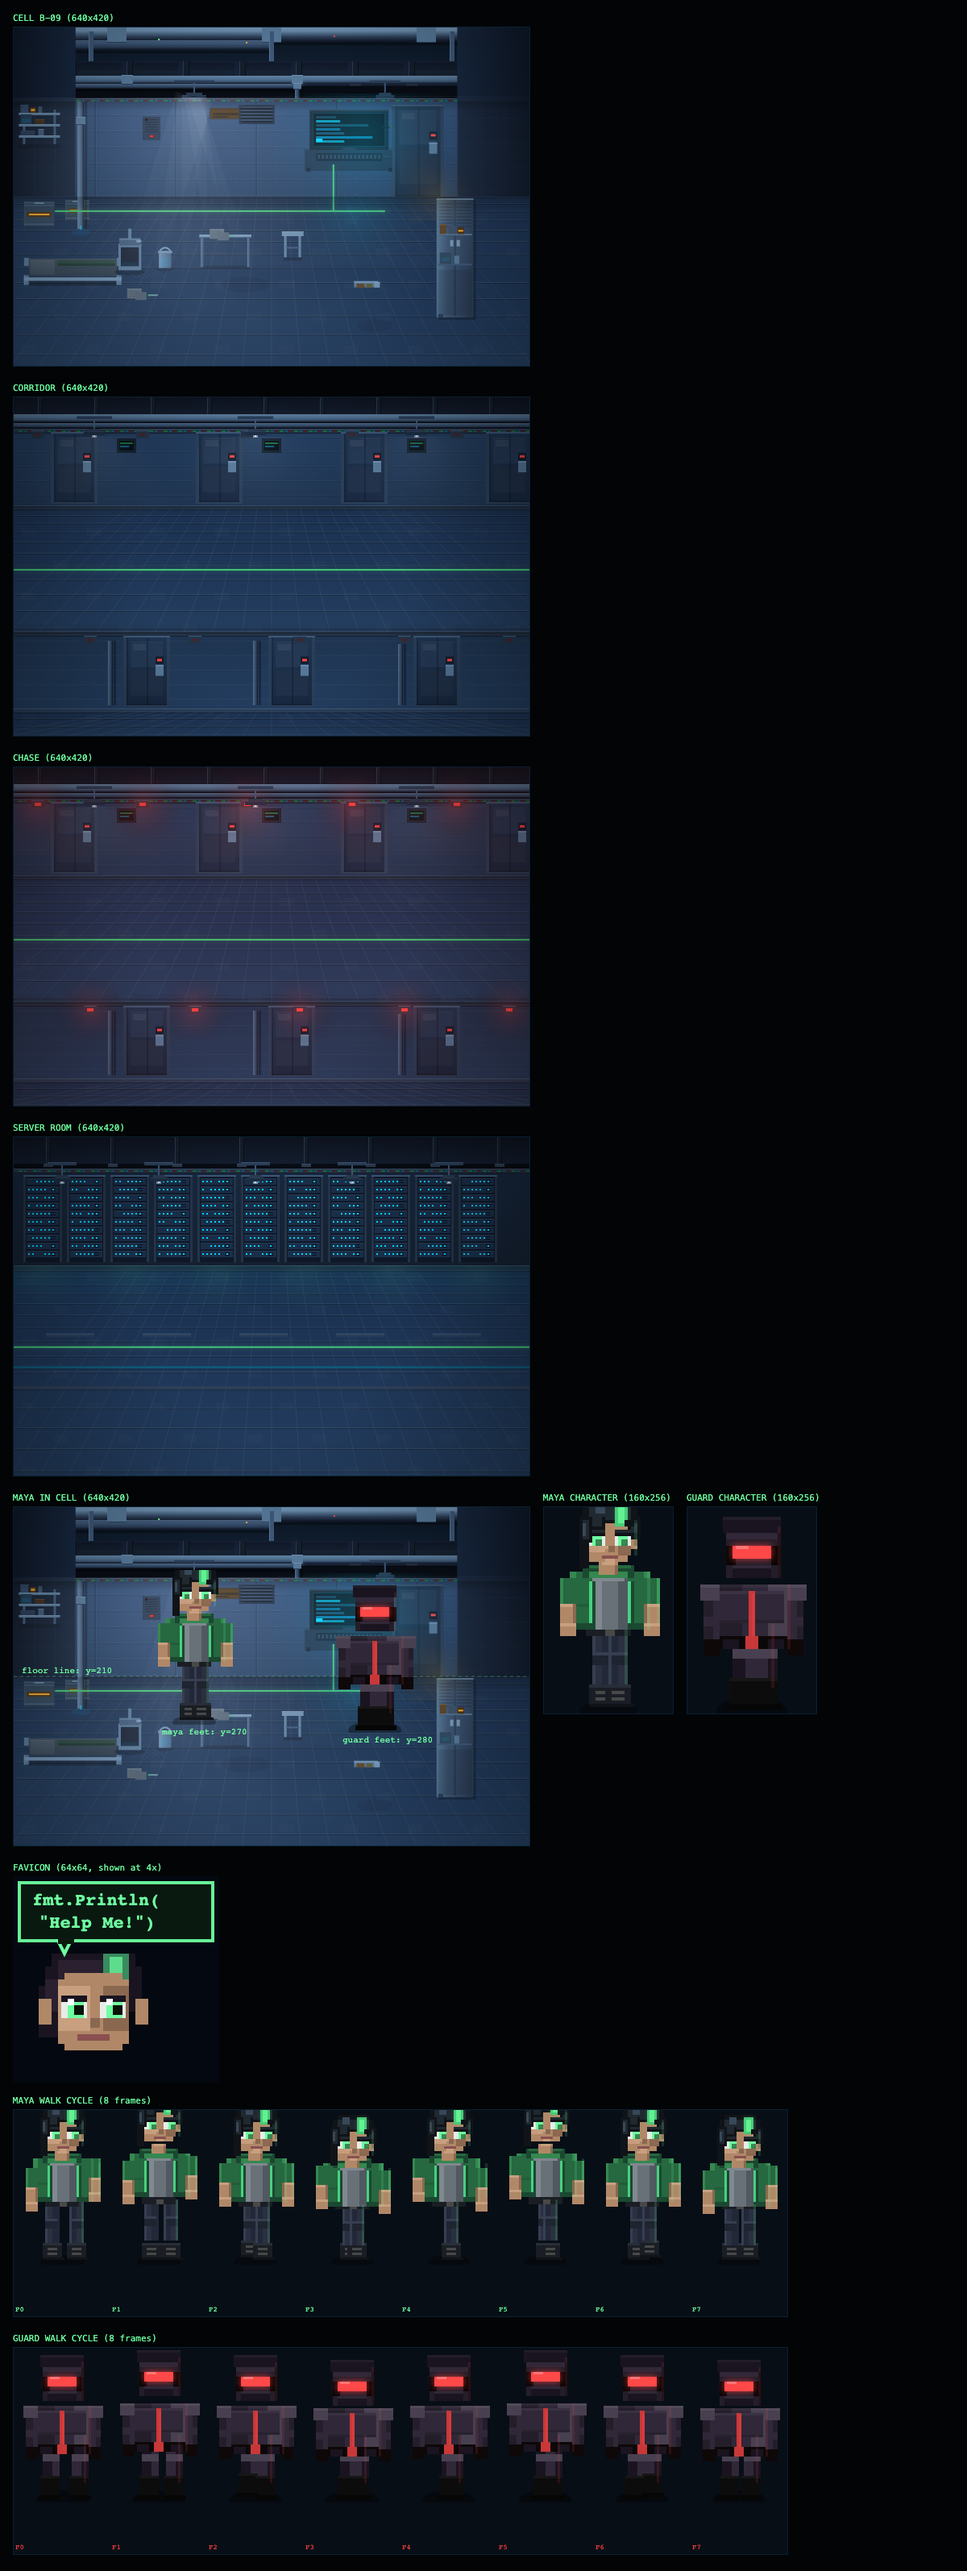
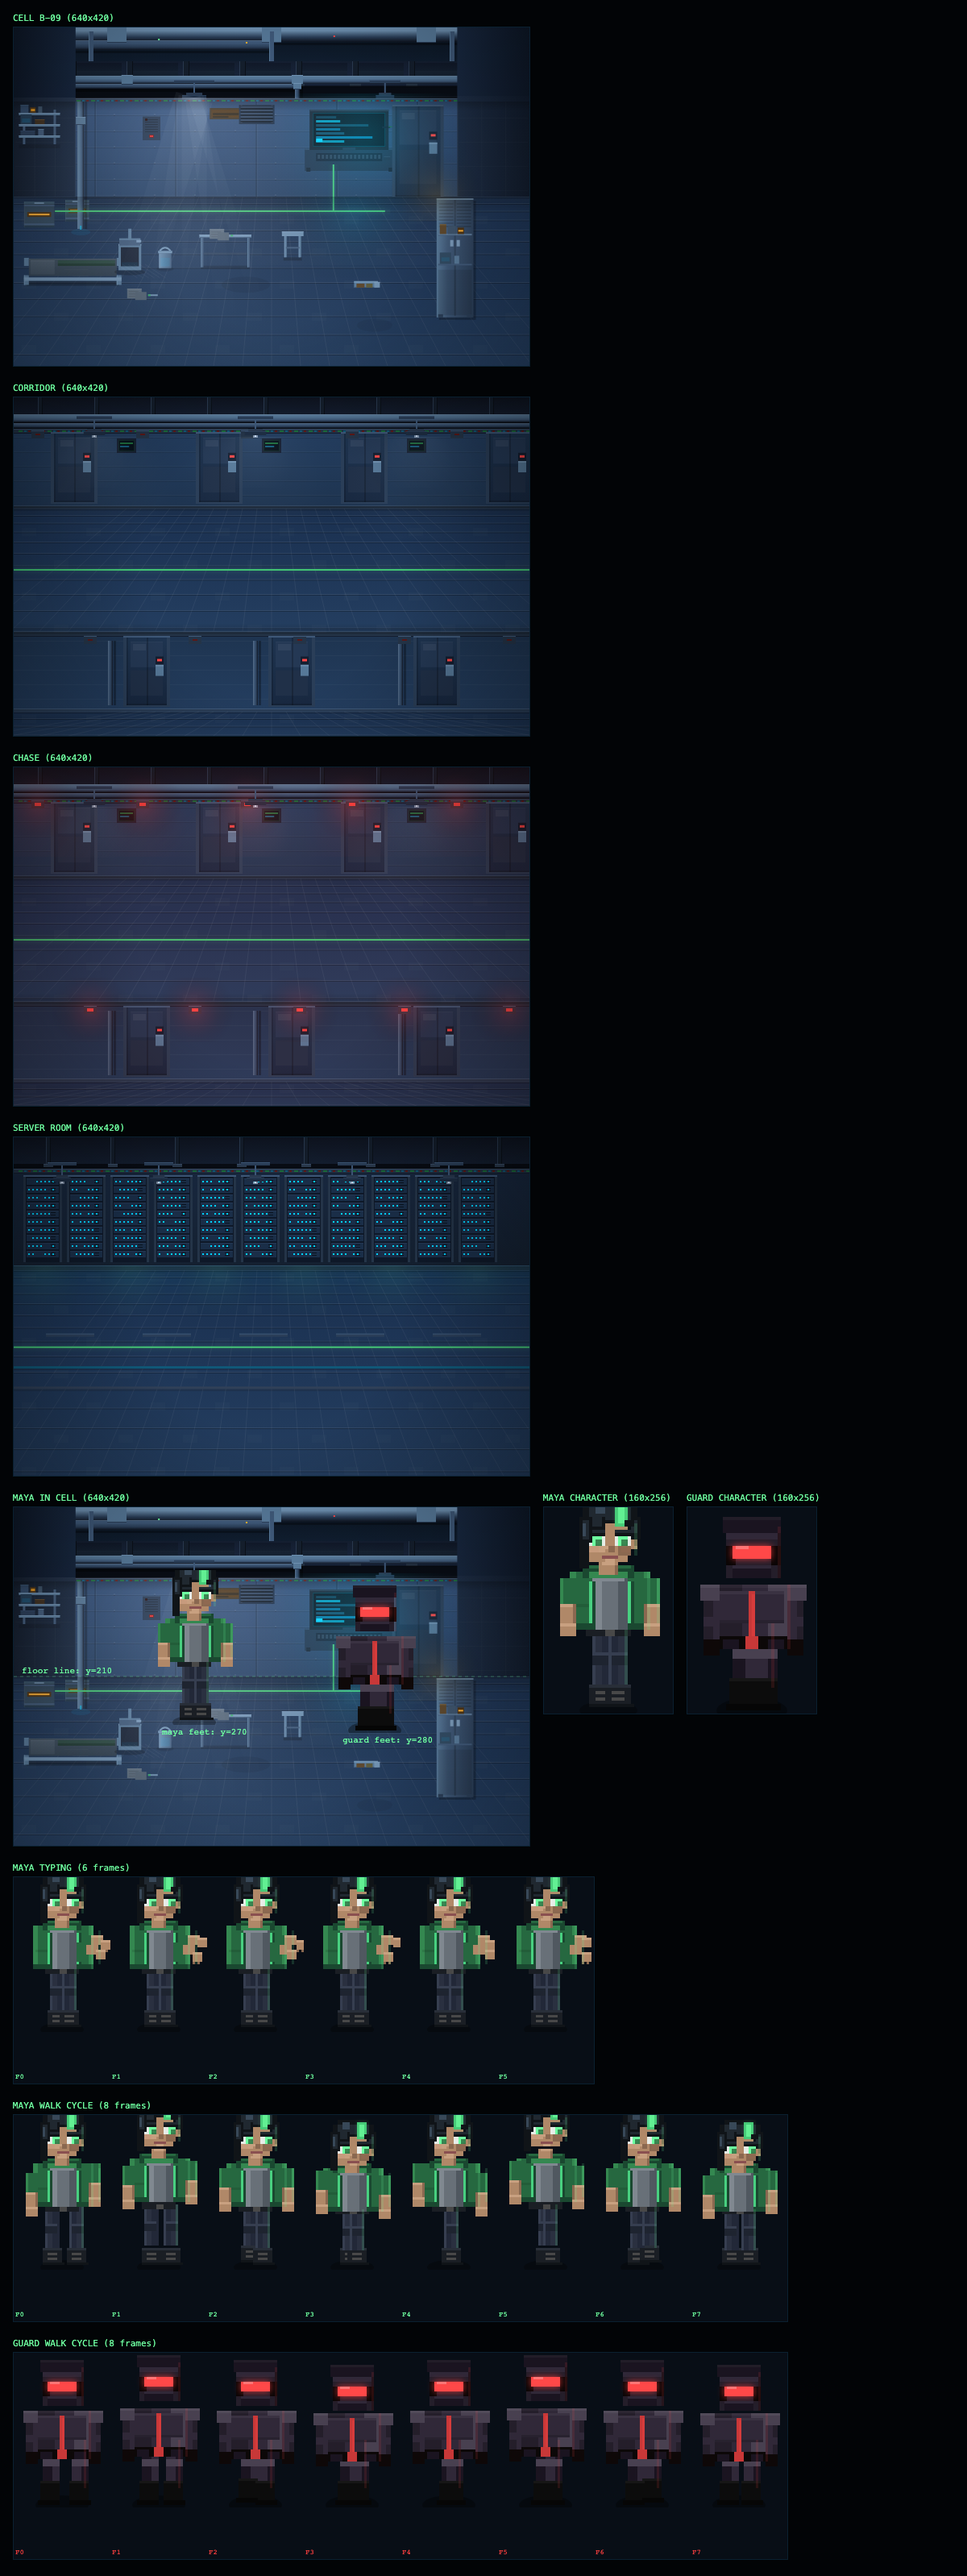
typing state

diff --git a/app/src/lib/sprites/character-painter.ts b/app/src/lib/sprites/character-painter.ts
@@ -22,7 +22,7 @@ const FRAME_COUNT: Record<CharAnimation, number> = {
   "walk-left": 8,
   "walk-down": 8,
   "walk-up": 8,
-  "hack": 4,
+  "hack": 6,
   "captured": 2,
 };
 
@@ -264,7 +264,18 @@ function drawMaya(ctx: CanvasRenderingContext2D, anim: CharAnimation, frame: num
 
   // ═══════════════ ARMS ═══════════════
   if (isHack) {
-    // Arms reaching forward (typing)
+    // Arms reaching forward, hands typing on keyboard
+    // 6 frames: alternating hand positions to simulate keystrokes
+    // Left hand moves on even frames, right hand on odd frames
+    const hf = frame % 6;
+    // Left hand vertical jitter (keystroke)
+    const lhY = (hf === 0 || hf === 2 || hf === 4) ? 1 : 0;
+    // Right hand vertical jitter
+    const rhY = (hf === 1 || hf === 3 || hf === 5) ? 1 : 0;
+    // Slight lateral shift — hands move across the keyboard
+    const lhX = hf < 2 ? 0 : hf < 4 ? 1 : -1;
+    const rhX = hf < 2 ? 0 : hf < 4 ? -1 : 1;
+
     // Left arm: hoodie sleeve → forearm skin → hand
     ctx.fillStyle = C.hoodieMid;
     ctx.fillRect(cx + 8, torsoTopY + 4, 5, 8);
@@ -277,12 +288,27 @@ function drawMaya(ctx: CanvasRenderingContext2D, anim: CharAnimation, frame: num
     ctx.fillRect(cx + 6, torsoTopY + 7, 5, 8);
     ctx.fillStyle = C.skinMid;
     ctx.fillRect(cx + 10, torsoTopY + 8, 5, 4);
-    // Hands
+    // Left hand — fingers down on keystroke frames
     ctx.fillStyle = C.skinMid;
-    ctx.fillRect(cx + 16, torsoTopY + 5, 4, 4);
-    ctx.fillRect(cx + 14, torsoTopY + 10, 4, 4);
+    ctx.fillRect(cx + 16 + lhX, torsoTopY + 5 + lhY, 4, 4);
     ctx.fillStyle = C.skinLight;
-    ctx.fillRect(cx + 16, torsoTopY + 5, 4, 1);
+    ctx.fillRect(cx + 16 + lhX, torsoTopY + 5 + lhY, 4, 1);
+    // Finger detail — individual finger tips pressing keys
+    if (lhY > 0) {
+      ctx.fillStyle = C.skinDark;
+      ctx.fillRect(cx + 16 + lhX, torsoTopY + 9 + lhY, 1, 1); // fingertip
+      ctx.fillRect(cx + 18 + lhX, torsoTopY + 9 + lhY, 1, 1);
+    }
+    // Right hand
+    ctx.fillStyle = C.skinMid;
+    ctx.fillRect(cx + 14 + rhX, torsoTopY + 10 + rhY, 4, 4);
+    ctx.fillStyle = C.skinLight;
+    ctx.fillRect(cx + 14 + rhX, torsoTopY + 10 + rhY, 4, 1);
+    if (rhY > 0) {
+      ctx.fillStyle = C.skinDark;
+      ctx.fillRect(cx + 14 + rhX, torsoTopY + 14 + rhY, 1, 1);
+      ctx.fillRect(cx + 16 + rhX, torsoTopY + 14 + rhY, 1, 1);
+    }
   } else {
     // Arms swing opposite to legs (counter-rotation)
     const leftArmSwing = pose ? pose.leftArm : 0;

diff --git a/app/test-visual/render-scene.ts b/app/test-visual/render-scene.ts
@@ -103,6 +103,25 @@ try {
   console.error("Error painting guard:", e);
 }
 
+// Maya typing/hack animation (6 frames)
+try {
+  const hackFrames = paintMayaFrames("hack", 3);
+  console.log("Maya hack frames:", hackFrames.length, `size: ${hackFrames[0].width}x${hackFrames[0].height}`);
+  const hackCanvas = document.getElementById("maya-hack") as HTMLCanvasElement;
+  const hCtx = hackCanvas.getContext("2d")!;
+  hCtx.imageSmoothingEnabled = false;
+  hCtx.fillStyle = "#080e16";
+  hCtx.fillRect(0, 0, 720, 256);
+  hackFrames.forEach((f, i) => {
+    hCtx.drawImage(f, i * 120, 0);
+    hCtx.fillStyle = "#6effa0";
+    hCtx.font = "9px monospace";
+    hCtx.fillText(`F${i}`, i * 120 + 2, 250);
+  });
+} catch (e) {
+  console.error("Error painting maya hack:", e);
+}
+
 // Maya walk cycle strip (all 8 frames)
 try {
   const walkFrames = paintMayaFrames("walk-right", 3);

diff --git a/app/test-visual/render-scene.html b/app/test-visual/render-scene.html
@@ -39,6 +39,10 @@
     <canvas id="guard" width="160" height="256"></canvas>
   </div>
   <div>
+    <div class="label">MAYA TYPING (6 frames)</div>
+    <canvas id="maya-hack" width="720" height="256"></canvas>
+  </div>
+  <div>
     <div class="label">MAYA WALK CYCLE (8 frames)</div>
     <canvas id="maya-walk" width="960" height="256"></canvas>
   </div>
